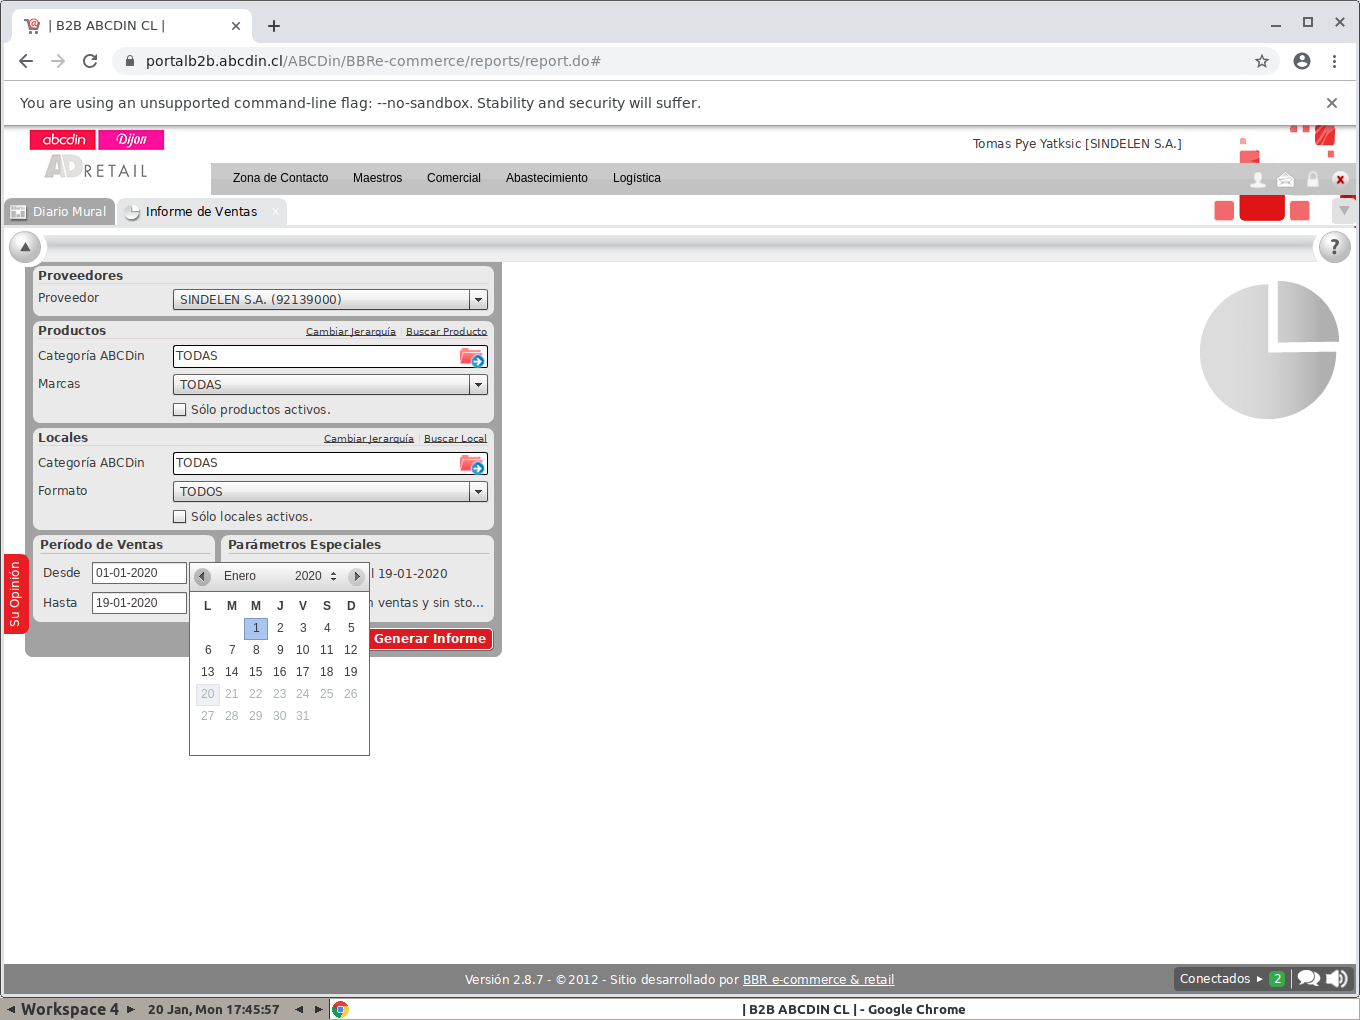
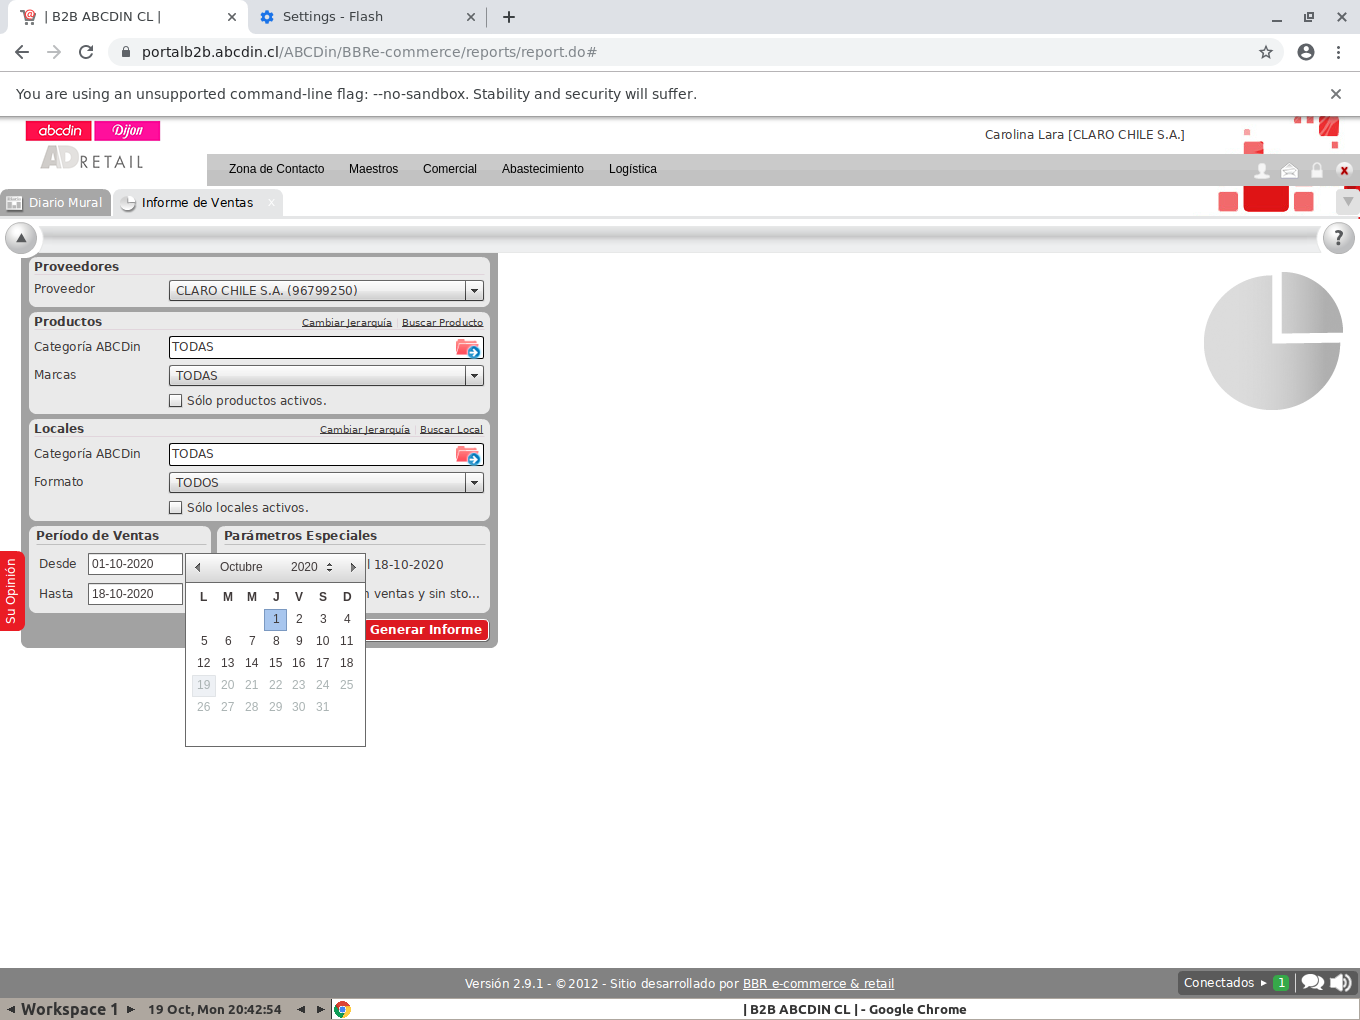
Added partial support for dynamic date calendar for BRR objects. Fixed issue with special downloads in BBR objects. Added feature auto-renamer for special downloads in BBR objects.

Changed region(s): [[0.0, 0.0, 1.0, 1.0], [0.8647, 0.3343, 0.9574, 0.4255]]

diff --git a/Caminos/BBR.py b/Caminos/BBR.py
@@ -16,11 +16,18 @@ class BBR:
         self.enable_SalesClick = False
         self.enable_customRename = False
         self.enable_extraDownload = False
+        self._portal_loaded = False
         self.login_verify = False
+        self.custom_date = False
         self.site_key = ""
+        self.marca = ""
+        self.date1 = ""
+        self.date2 = ""
         self.checker_data = {}
         self.checker_data["mouse_move"] = (240, -5) #(x, y)
         self.checker_data["screenshot_save_crop"] = (0, 0, 70, 15) #(xoffset, yoffset, w, h)
+        self.issued_day = today()-timedelta(days=1)
+        self.files_downloaded_extension = ".zip"
         self.account_procedure = self.account_procedure_method
         self.marca_procedure = self.marca_procedure_method
         self.marca_inv_procedure = self.marca_inv_procedure_method
@@ -32,11 +39,6 @@ class BBR:
         self.sshot2_procedure = self.sshot2_procedure_method
         self.finish_procedure = self.finish_procedure_method
         self.pre_checker_procedure = self.empty_procedure
-        self.issued_day = today()-timedelta(days=1)
-        self._portal_loaded = False
-        self.files_downloaded_extension = ".zip"
-        self.desc = 0
-        self.marca = ""
 
     def empty_procedure(self):
         pass
@@ -196,16 +198,35 @@ class BBR:
                 press(RIGHT)
 
     def date_go_first(self):
-        if self.enable_newBBR:
+        hoy = self.issued_day
+        if self.enable_newBBR or not self.custom_date:
             press(ENTER)
         else:
             time_wait(100)
             press(RIGHT)
             time_wait(100)
             press(LEFT)
-            for i in range(31):
+            for i in range(hoy-1):
                 time_wait(100)
                 press(LEFT)
+
+    def date_click(self, num_dias):
+        time_wait(1000)
+        hoy = self.issued_day
+        if hoy.day-num_dias <= 0:
+            image_click("left.png")
+            self.date_go_last()
+            for i in range(num_dias - hoy.day - 1):
+                time_wait(100)
+                press(LEFT)
+        else:
+            nueva_fecha = subtract_days(hoy, num_dias)
+            for i in range(nueva_fecha.day):
+                press(RIGHT)
+                time_wait(100)
+            if self.enable_newBBR:
+                press(ENTER)
+        press(TAB)
 
     def date_click_inverse(self, num_dias):
         image_click("dias.png")
@@ -223,6 +244,32 @@ class BBR:
                 time_wait(100)
                 press(LEFT)
         press(TAB)
+
+    def date_click_dynamic(self, date):
+        hoy = self.issued_day
+        if self.enable_date_inverse:
+            image_click("dias.png")
+            mouse_move(100, 0)
+            click()
+        else:
+            time_wait(1000)
+            mouse_move(30,0)
+        if date[:4] != hoy.year:
+            for x in range(int(hoy.year) - int(date[:4])):
+                image_click("year.png")
+                time_wait(5000)
+        if int(date[3:5]) - hoy.month > 0:
+            for x in range(hoy.month - int(date[3:5])):
+                image_click("right.png")
+        else:
+            for x in range(int(date[3:5]) - hoy.month):
+                image_click("left.png")
+        mouse_move(0,15)
+        click()
+        print(int(date[6:]))
+        for x in range(int(date[6:])-1):
+            press(RIGHT)
+        press(ENTER)
 
     def check_if_updated(self):
         if image_appeared("cerrar.png"):
@@ -285,31 +332,15 @@ class BBR:
         image_click("ventas.png")
         time_wait(30000)
 
-    def date_click(self, num_dias):
-        time_wait(1000)
-        hoy = self.issued_day
-        if hoy.day-num_dias <= 0:
-            image_click("left.png")
-            self.date_go_last()
-            for i in range(num_dias - hoy.day - 1):
-                time_wait(100)
-                press(LEFT)
-        else:
-            nueva_fecha = subtract_days(hoy, num_dias)
-            for i in range(nueva_fecha.day):
-                press(RIGHT)
-                time_wait(100)
-            if self.enable_newBBR:
-                press(ENTER)
-        press(TAB)
-
     def get_ventas(self,num=0):
         self.to_ventas_panel()
         image_click("fecha.png")
-        self.date_click(7)
-        hoy = today()
-        nueva_fecha = self.issued_day-timedelta(days=6)
-        nueva_fecha2 = self.issued_day
+        if self.custom_date:
+            self.date_click_dynamic(self.date1)
+            image_click("fecha2")
+            self.date_click_dynamic(self.date2)
+        else:
+            self.date_click(7)
         self.pre_ventas_procedure()
         self.marca_procedure(num)
         image_click("generar_informe.png")
@@ -322,9 +353,14 @@ class BBR:
             image_click("fuente_calendario.png")
         time_wait(1000)
         if self.enable_date_inverse:
-            self.date_click_inverse(7)
+            if self.custom_date:
+                self.date_click_dynamic(self.date1)
+            else:
+                self.date_click_inverse(7)
         self.ventas_procedure()
         image_wait("dlprompt.png")
+        nueva_fecha = self.issued_day-timedelta(days=6)
+        nueva_fecha2 = self.issued_day
         if self.enable_customRename:
             name1 = RUT_EMPRESA + "_" + date_to_string(nueva_fecha,"%Y%m%d") + "_" + date_to_string(nueva_fecha2,"%Y%m%d") + "_" + self.marca +  "_" + self.PORTAL + "_" + self.SIGLA +"_B2B_DIA"
         else:
@@ -347,7 +383,6 @@ class BBR:
             press(ENTER)
         time_wait(100)
         press(TAB)
-        hoy = today()
         nueva_fecha2 = self.issued_day
         self.pre_inventario_procedure()
         self.marca_inv_procedure(num)
@@ -432,7 +467,7 @@ class BBR:
         image_wait("cerrar.png")
         time_wait(500)
         press(TAB)
-        for y in range(down_num):
+        for y in range(down_num-1):
             press(DOWN)
             time_wait(500)
         press(RIGHT)
@@ -444,6 +479,18 @@ class BBR:
         time_wait(500)
         press(SPACE)
         time_wait(500)
+        image_hover("extradownload.png")
+        mouse_move(10,-10)
+        screenshot_save_crop(str(down_num) + str(extra_down+1),mouse_get_x(),mouse_get_y(),200,20)
+        temp = get_string_from_image(get_screenshot_directory() + str(down_num) + str(extra_down+1) + ".png")
+        print(temp)
+        name = str(temp)
+        if "/" in name:
+            name = name.split("/")[0]
+        if not name[1].isupper():
+            print("Entré!")
+            name = "SUBRUBRO"
+        print(name)
         image_click("seleccionar.png")
         image_click("generar_informe.png")
         self.waiter()
@@ -459,8 +506,6 @@ class BBR:
             time_wait(500)
             press(DOWN)
             time_wait(500)
-            press(DOWN)
-            time_wait(500)
             press(TAB)
             time_wait(500)
             press(ENTER)
@@ -470,15 +515,12 @@ class BBR:
             time_wait(500)
             press(ENTER)
             image_wait("dlprompt.png")
-            file = "ExtraFile" + str(down_num) + str(extra_down) 
-            type(get_download_directory() + file)
+            type(get_download_directory() + str(down_num) + str(extra_down+1) + str(name))
             image_click("save.png")
             time_wait(4000)
-            tcp_send("SNDFIL " + str(get_downloads_count()) + "    '" + file + self.files_downloaded_extension + "'")
+            tcp_send("SNDFIL " + str(get_downloads_count()) + "    '" + str(down_num) + str(extra_down+1)+ name + self.files_downloaded_extension + "'")
             image_click("cerrar.png")
-        if extra_down == 0:
-            matrix_set("CYCLE_COUNT",matrix_get("CYCLE_COUNT")+1)
-
+                
     def extraDownloads(self):
         subRubroDict = {}
         rubro = ""
@@ -490,15 +532,31 @@ class BBR:
                 subRubroDict[temp2[0]] = temp2[1]
         else:
             rubro = EXTRA
-        file_start = matrix_get("CYCLE_COUNT")
+        file_start = matrix_get("CYCLE_COUNT")+1
+        print("El ciclo principal parte de {}".format(file_start))
         for x in range(file_start,int(rubro)+1):
-            self.downloadSpecial(x)
+            print("El ciclo principal va en {}".format(matrix_get("CYCLE_COUNT")+1))
             if str(x) in subRubroDict:
-                for y in range(1,int(subRubroDict[str(x)])):
+                print("El subsiclo parte de {}".format(matrix_get("IN_CYCLE_COUNT")))
+                for y in range(int(matrix_get("IN_CYCLE_COUNT")),int(subRubroDict[str(x)])):
                     self.downloadSpecial(x,extra_down=y)
+                    matrix_set("IN_CYCLE_COUNT",matrix_get("IN_CYCLE_COUNT")+1)
+                    print("El subsiclo va en {}".format(matrix_get("IN_CYCLE_COUNT")))
+                matrix_set("IN_CYCLE_COUNT",0)
+            else:
+                self.downloadSpecial(x)
+            matrix_set("CYCLE_COUNT",matrix_get("CYCLE_COUNT")+1)
 
     def run(self):
         if not self.login_verify:
+            if DATE != 'none':
+                self.custom_date = True
+                if "," in DATE:
+                    temp = DATE.split(",")
+                    self.date1 = temp[0]
+                    self.date2 = temp[1]
+                else:
+                    self.date1 = DATE
             self.login()
             if self.enable_checker:
                 self.check_if_updated()
@@ -508,10 +566,10 @@ class BBR:
             if not matrix_get("SSHOT_2"):
                 self.screenshot_2()
                 matrix_set("SSHOT_2", True)
-            if get_downloads_count() == 0:
+            if int(matrix_get("DOWNLOAD_COUNT")) == 0:
                 self.get_ventas()
             time_wait(5000)
-            if get_downloads_count() == 1:
+            if int(matrix_get("DOWNLOAD_COUNT")) == 1:
                 self.get_inventario()
             if self.enable_extraDownload:
                 self.extraDownloads()

diff --git a/Engine/startup.py b/Engine/startup.py
@@ -33,7 +33,8 @@ if OPTION_TRACE_EVERY == 0:
 	OPTION_TRACE_EVERY = 10
 EXTRA = OPTION_ARGS[13]
 NUM_SSHOTS = OPTION_ARGS[14]
-MATRIX = [str(char) for char in OPTION_ARGS[15]]
+DATE = OPTION_ARGS[15]
+MATRIX = [str(char) for char in OPTION_ARGS[16]]
 
 IMAGE_BASED_FUNCTIONS_TIMEOUT = int(TIMEOUT) #Timeout hook
 
@@ -73,7 +74,6 @@ def matrix_get(key):
             num = []
             num.append(MATRIX[MATRIX_KEYWORD_DICT[key]])
             num.append(str(ord(MATRIX[MATRIX_KEYWORD_DICT[key]+1]) - 97))
-            print(num)
             return int(''.join(num))
         else:
             return int(MATRIX[MATRIX_KEYWORD_DICT[key]])
@@ -304,6 +304,7 @@ if not "Login" in OPTION_FILENAME:
         matrix_register("DOWNLOAD_STARTED")
         matrix_register("DOWNLOAD_COUNT")
         matrix_register("CYCLE_COUNT")
+        matrix_register("IN_CYCLE_COUNT")
 
 # Inicio proceso
 

diff --git a/Caminos/Jumbo.py b/Caminos/Jumbo.py
@@ -5,7 +5,13 @@ set_download_directory("/home/seluser/Downloads/")
 set_screenshot_directory("/home/seluser/Screenshots/")
 set_min_similarity(0.75)
 
-def boton_azul_procedure():
+def boton_azul_procedure(objectReference):
+    if objectReference.custom_date:
+        image_click("dias")
+        mouse_mouse(370,0)
+        click()
+        objectReference.date_go_first()
+        press(ENTER)
     image_click("descargar.png")
     image_wait("listo.png")
     press(TAB)
@@ -44,6 +50,7 @@ obj.enable_recaptcha = True
 obj.site_key = "6LcVYtEUAAAAALlg52jHvKf9IM8n2FvJfqHSyqxg"
 obj.account_procedure = account_special
 obj.ventas_procedure = boton_azul_procedure
+obj.ventas_procedure = createBoundMethod(boton_azul_procedure,obj)
 obj.inventario_procedure = boton_verde_procedure
 obj.finish_procedure = finish_method
 obj.checker_data["mouse_move"] = (115, -5)

diff --git a/Caminos/Abcdin.py b/Caminos/Abcdin.py
@@ -21,7 +21,7 @@ def finish_method():
     tcp_send("FINISH0")
 
 def account_special():
-    result = image_wait_multiple("bloqueado.png", "desactivado.png")
+    result = image_wait_multiple("bloqueado.png", "desactivado.png", "comercial.png")
     log_sshot = "{}_{}".format("PRELOGIN", "ABCDIN")
     if result == "bloqueado.png":
         send_action_simple(1,15)
@@ -39,6 +39,8 @@ def account_special():
         tcp_send("SNDPIC1 /home/seluser/Screenshots/" + log_sshot + ".png")
         tcp_send("FINISH16")
         abort("Credencial login desactivada.")
+    else:
+        pass
 
 ABCDin = BBR()
 ABCDin.PORTAL = "ABCDIN"

diff --git a/Engine/python_wrapper.py b/Engine/python_wrapper.py
@@ -15,6 +15,8 @@ import os
 import traceback
 import calendar
 import sys
+import types
+
 
 # ==== Anti-captcha Python imports ====
 ABSOLUTE_PATH_MODULES = "/usr/lib/python2.7/dist-packages"
@@ -473,6 +475,9 @@ def open_read(filename):
 
 def run_script(filename):
 	exec(_preprocess(open(filename).read()))
+
+def createBoundMethod(func, obj):
+	return types.MethodType(func, obj, obj.__class__)
 
 # ==== EXTERNAL-POWERED FUNCTIONS ====
 
